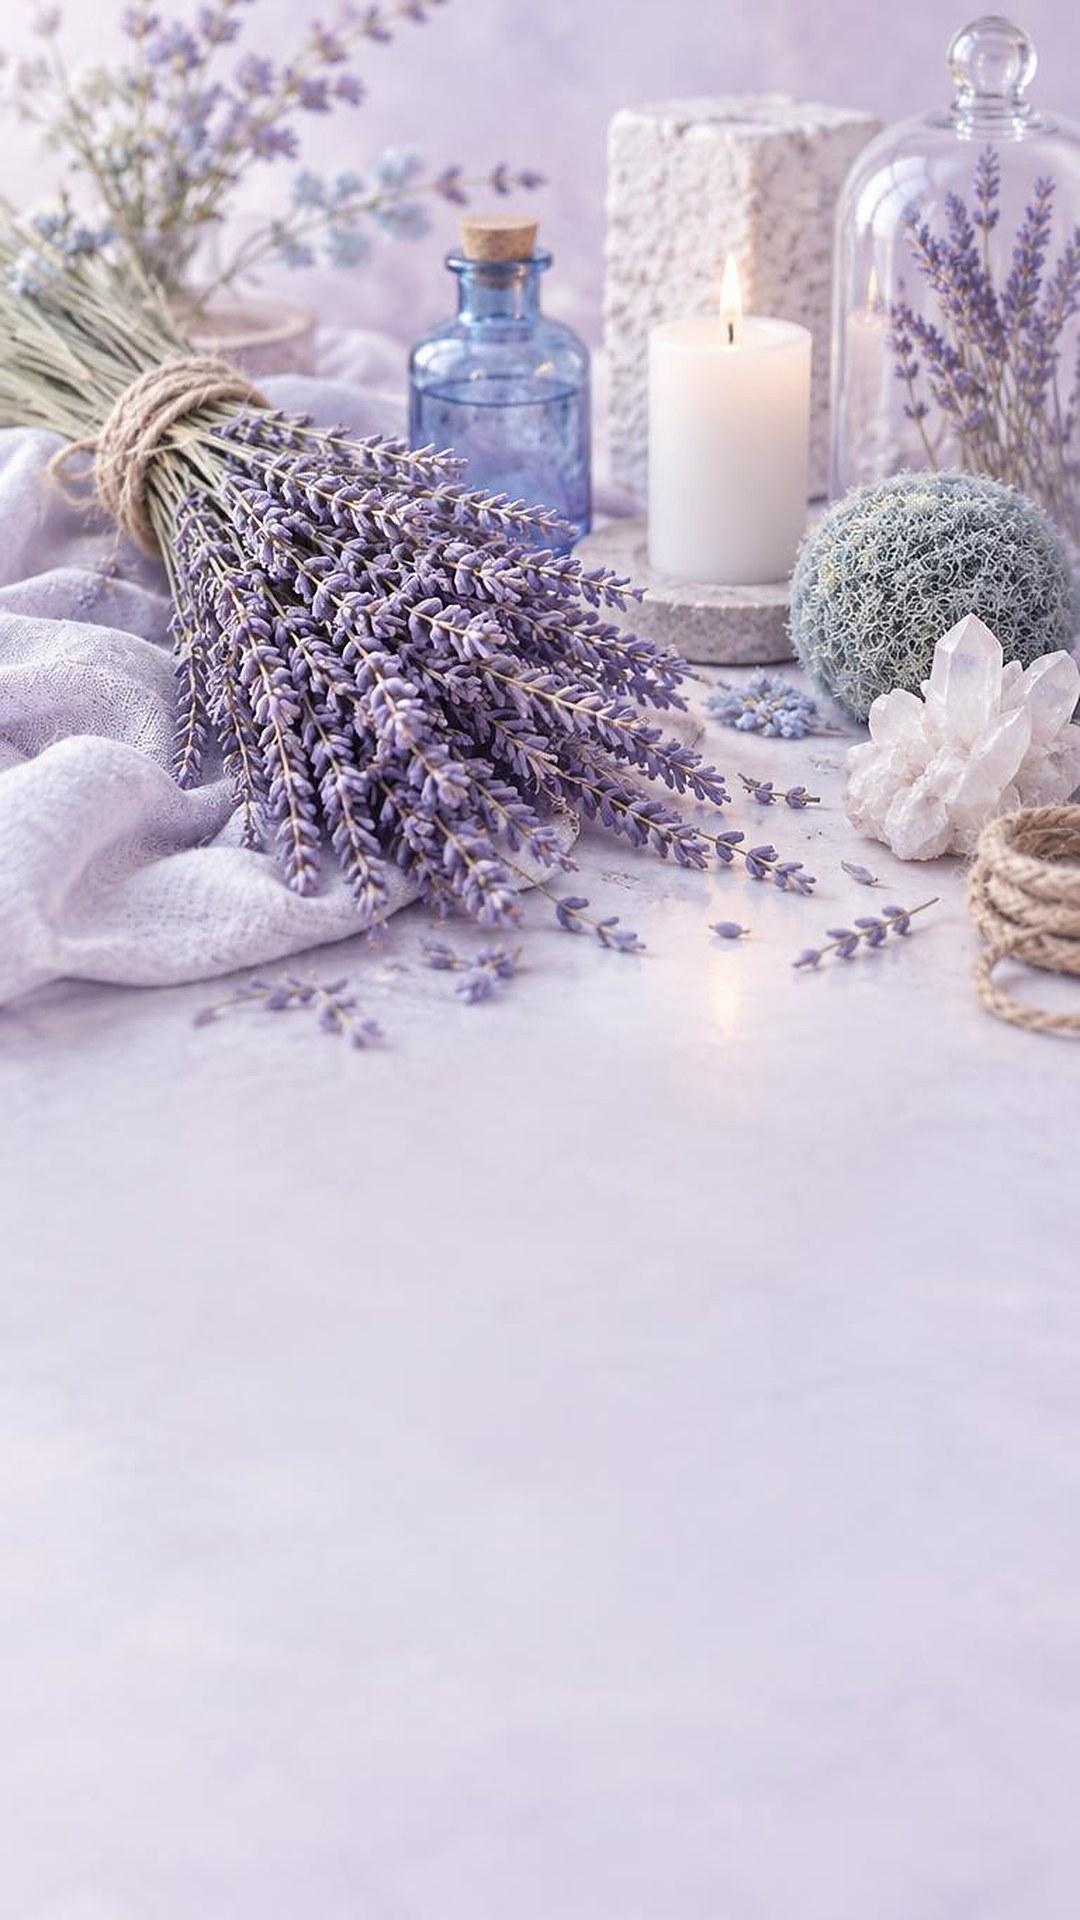
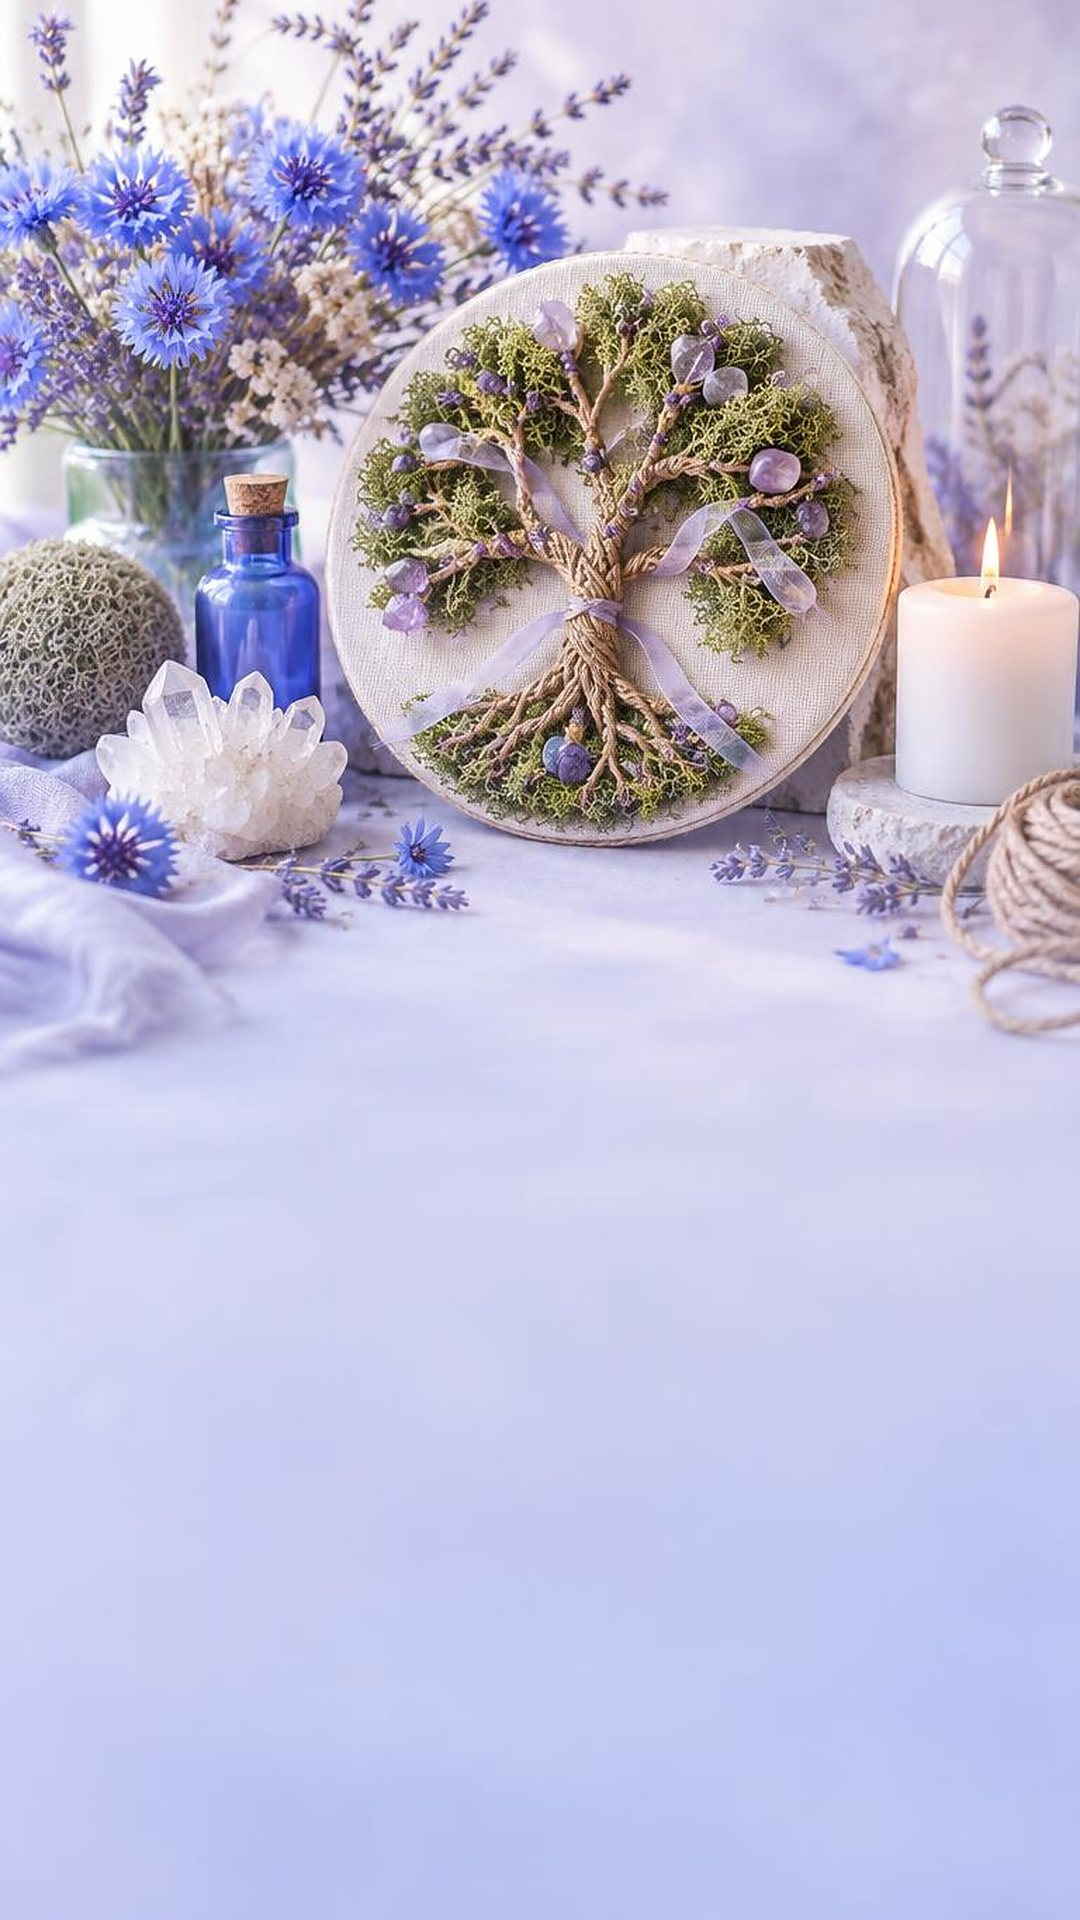
deploy: обновление лендинга

diff --git a/style.css b/style.css
@@ -104,7 +104,7 @@ a{color:inherit;text-decoration:none}
 /* ---------- ГЕРОЙ ---------- */
 .hero{position:relative;height:100vh;height:100dvh;min-height:620px;overflow:hidden;display:flex;align-items:stretch}
 .hero__media{position:absolute;inset:-6% 0;will-change:transform;
-  background-image:var(--hero-mobile,none),url('img/hero.jpg?v=52');
+  background-image:var(--hero-mobile,none),url('img/hero.jpg?v=67');
   background-size:cover;background-position:center,72% center}
 /* светлая вуаль: картинка дышит сверху, низ ровно уходит в фон страницы —
    текст теперь тёмный, поэтому шторки не затемняют, а наоборот проясняют */
@@ -233,7 +233,7 @@ a{color:inherit;text-decoration:none}
 
 /* ---------- адаптив ---------- */
 @media (max-width:900px){
-  :root{--hero-mobile:url('img/hero-mobile.jpg?v=52')}
+  :root{--hero-mobile:url('img/hero-mobile.jpg?v=67')}
   .hero__media{background-position:center,center}
   .slide{width:78vw}
   .gallery__sticky{height:auto;position:relative;padding:60px 0}

diff --git a/index.html b/index.html
@@ -15,7 +15,7 @@
 <meta property="og:description" content="За один вечер — готовая вещь. Мастер ведёт за руку: вот так держать, вот так вести.">
 <meta property="og:image" content="img/og.jpg">
 <meta name="twitter:card" content="summary_large_image">
-<link rel="stylesheet" href="style.css?v=66">
+<link rel="stylesheet" href="style.css?v=67">
 </head>
 <body>
 

diff --git a/HERO-PROMPTS.md b/HERO-PROMPTS.md
@@ -5,6 +5,88 @@
 
 ---
 
+## 🔘 ПРОМПТ — КНОПКА v2 (сочная, «в виде чего-то»)
+
+> Брат: «чтоб сочная была, красивая, мож в виде чего-то, чтоб сочеталось с главной».
+> Размер: Leonardo preset **16:9** (если есть 21:9 — бери его). Внутри **никакого текста** —
+> надпись накладываем кодом. Фон строго однородный — по нему вырезаю в прозрачность.
+
+### 1 ⭐ ОСНОВНОЙ — сочная желейная капсула (под белый текст)
+```
+A single glossy jelly capsule button, UI element, centered, filling about 88% of the frame width, rounded pill shape with fully rounded ends, aspect ratio about 4:1. Rich saturated lavender-violet translucent gel, deep periwinkle blue shading in the lower half, juicy candy-like volume, thick glossy highlight across the top, bright white rim light, a few tiny dew drops and one soft specular streak. The center of the capsule is clean and smooth: empty space for a label. Soft violet drop shadow and a gentle lilac glow around it. Background: flat, uniform, plain light lilac, no objects, no texture. Product render, studio light, crisp edges, 3D UI asset, straight front view, perfectly centered and symmetrical, ultra detailed, 8k. No text, no letters, no numbers, no icon, no logo, no watermark.
+```
+Negative:
+```
+text, letters, words, numbers, icon, arrow, logo, watermark, signature, hands, fingers, phone, screen, mockup, perspective, tilted, rotated, cropped, multiple buttons, extra objects, busy background, texture, noise, dark background, black, dull, washed out, desaturated, muddy, blurry, low contrast, flat
+```
+
+### 2 — стеклянная капсула с лавандой внутри (декоративная, центр пустой)
+```
+A single transparent glass capsule button, UI element, centered, about 88% of the frame width, rounded pill shape, aspect ratio about 4:1. Clear smooth glass filled with a soft lavender-violet liquid glow, two small sprigs of dried lavender fixed inside near the two rounded ends only, the middle third of the capsule completely clear and empty for a label. Bright white rim light, delicate specular highlights, soft violet drop shadow, gentle lilac glow around. Background: flat, uniform, plain light lilac, no objects, no texture. Product render, studio light, crisp sharp edges, 3D UI asset, straight front view, perfectly centered and symmetrical, ultra detailed, 8k. No text, no letters, no numbers, no icon, no logo, no watermark.
+```
+
+### 3 — кнопка-голыш из лавандового мыла (матовая, «ручная работа»)
+```
+A single smooth oval bar of handmade lavender soap used as a button, UI element, centered, about 88% of the frame width, very rounded pill shape, aspect ratio about 4:1. Matte soft lavender-violet surface with a subtle silky sheen, a few tiny air bubbles and a hint of dried lavender speckle at the very edges, the central area clean and smooth for a label. Soft short drop shadow, gentle lilac glow around. Background: flat, uniform, plain light lilac, no objects, no texture. Product render, studio light, crisp edges, 3D UI asset, straight front view, perfectly centered and symmetrical, ultra detailed, 8k. No text, no letters, no numbers, no icon, no logo, no watermark.
+```
+
+**Моя ставка — №1.** Она «сочная» именно так, как ты просишь, и при этом центр чистый: белая надпись ляжет без проблем. №2 самая нарядная, но лаванда по краям съест место под текст — придётся делать кнопку шире. №3 самая «ручная», но матовая кнопка на светлом фоне будет самой незаметной из трёх.
+
+---
+
+## 🔘 ПРОМПТ — КНОПКА (стеклянная капсула под светлую тему)
+
+> Брат просит сгенерить кнопку в Leonardo. Важно: **капсулу просим ПУСТУЮ** — буквы генератор
+> пишет криво; надпись «Смотреть курсы» накладываем кодом поверх.
+> **Размер:** Leonardo preset **16:9** (если есть 21:9 — бери его, капсула выйдет длиннее и ровнее).
+> На выходе ~1472×832. Нужна капсула ~4:1, итог на сайте — 217×56 CSS (×3 для retina = 651×168).
+
+**EN:**
+```
+A single horizontal glass capsule button, UI element, centered, occupying about 88% of the frame width. Rounded pill shape with fully rounded ends, aspect ratio about 4:1. Palette: pale lavender, soft periwinkle and milky white. Translucent frosted glass with a bright white rim light along the top edge, soft inner glow, subtle violet inner shadow at the bottom, tiny specular highlights. Gentle drop shadow beneath, soft lilac glow around it. Completely EMPTY inside: absolutely no text, no letters, no numbers, no icons, no symbols, no logo. Background: flat, clean, uniform pale lilac, no objects, no texture. Product render, studio lighting, crisp sharp edges, 3D UI asset, straight front view, perfectly centered, symmetrical, ultra detailed, 8k.
+```
+
+**RU:**
+```
+Одна горизонтальная стеклянная капсула-кнопка, элемент интерфейса, по центру кадра, занимает около 88% ширины. Форма пилюли с полностью скруглёнными торцами, соотношение примерно 4:1. Палитра: бледная лаванда, мягкий васильково-голубой и молочно-белый. Полупрозрачное матовое стекло, яркая белая контурная подсветка по верхней кромке, мягкое внутреннее свечение, лёгкая сиреневая тень внутри снизу, мелкие блики. Внизу мягкая падающая тень, вокруг — лиловое свечение. Внутри капсулы ПУСТО: никакого текста, букв, цифр, иконок, символов и логотипов. Фон — ровный, чистый, однородный бледно-лиловый, без предметов и фактуры. Продуктовый рендер, студийный свет, резкие края, 3D-элемент интерфейса, строго фронтальный вид, идеально по центру, симметрично, 8k.
+```
+
+**Negative:**
+```
+text, letters, words, numbers, icon, arrow, logo, watermark, signature, hands, fingers, phone, screen, mockup, perspective, tilted, rotated, cropped, multiple buttons, extra objects, busy background, texture, noise, dark background, black, navy, oversaturated, blurry, low contrast
+```
+
+---
+
+## 🌸 ПРОМПТ v6 (САМЫЙ АКТУАЛЬНЫЙ) — васильки + «древо рода» со мхом
+
+> Задача брата: главная в той же лавандовой палитре, но **больше васильков** (их синева сядет
+> в тон кнопке-капсуле, у неё внутри синева `#313abe`), плюс **древо рода со стабилизированным
+> мхом** — перекличка с фото мастера. Низ кадра — пустой, чуть холоднее книзу, чтобы кнопка «села».
+> Внутри никакого текста. Фон ровный — по нему при необходимости режу в прозрачность.
+
+**EN (телефон, 9:16) — preset 9:16:**
+```
+Cinematic bright still life photograph, vertical 9:16. Airy high-key lighting, soft diffused daylight, gentle haze. Palette: pale lavender and lilac with strong cornflower-blue accents and milky white. Centerpiece: a round handmade linen wall panel (panno) with a family tree laid out on it - the trunk and branches made of twisted jute twine and copper wire, generously covered with soft stabilised moss in fresh green, studded with violet amethyst beads, small polished stones and thin linen ribbons - the panel stands leaning at a slight angle against a rough plaster block. Around it: a generous bouquet of blue cornflowers mixed with dried lavender, a small blue glass apothecary bottle with a cork, a white lit pillar candle on a stone coaster, a clear glass bell jar, a pale moss sphere, a white quartz crystal cluster, washed linen cloth, a coil of jute rope. Objects clustered in the upper half and toward the sides, dissolving softly into a pale lilac background. The lower 45% is completely empty: smooth, pale, slightly blurred, tinted soft lilac-blue, clean negative space for a headline and a button. No dark shadows, no black areas. Shallow depth of field, delicate film grain, pastel colour grading, no text, no watermark, ultra detailed, 8k.
+```
+
+**RU:**
+```
+Кинематографичный светлый натюрморт, вертикально 9:16. Воздушный высокий ключ, мягкий рассеянный свет, лёгкая дымка. Палитра: бледная лаванда и сирень с сильными васильково-синими акцентами и молочно-белым. В центре — круглое ПАННО из льна ручной работы, на нём выложено древо рода: ствол и ветви из скрученного джутового шнура и медной проволоки, густо покрытые мягким стабилизированным мхом свежего зелёного цвета, с сиреневыми бусинами аметиста, мелкими отшлифованными камнями и тонкими льняными лентами; панно стоит, прислонённое под лёгким углом к гипсовому блоку. Вокруг: щедрый букет синих васильков вместе с сушёной лавандой, маленькая синяя стеклянная бутылочка с пробкой, белая зажжённая свеча-столбик на каменной подставке, стеклянный колпак, светлый шар мха, белая друза кварца, выстиранная льняная ткань, моток джутовой верёвки. Предметы собраны в верхней половине и по краям, мягко растворяясь в бледно-сиреневом фоне. Нижние 45% полностью пустые: ровные, светлые, слегка размытые, с лёгким сиренево-голубым оттенком — чистое место под заголовок и кнопку. Без тёмных теней и чёрных зон. Малая глубина резкости, лёгкое зерно, пастельная цветокоррекция, без текста и водяных знаков, 8k.
+```
+
+**Для десктопа (16:9)** — те же три замены, что и раньше:
+`vertical 9:16` → `horizontal 16:9`, `upper half and toward the sides` → `upper half, weighted to the right`,
+`The lower 45%` → `The lower 45% and the left side`.
+
+**Negative:**
+```
+text, letters, words, watermark, logo, signature, dark background, deep navy, black, moody low-key, heavy shadows, purple neon, magenta, oversaturated, plastic, blurry, horizontal stripes, hard edges, banding, cluttered bottom, crowded composition, dried brown moss, dead plants
+```
+> `dried brown moss, dead plants` — иначе «стабилизированный мох» выйдет сухим и бурым, а нужен свежий зелёный.
+
+---
+
 ## 🌟 ПРОМПТ v5 (САМЫЙ АКТУАЛЬНЫЙ) — светлый, ФИОЛЕТОВЕЕ, как `23110.jpg`
 
 > Брат прислал `uploads/23110.jpg` — почти идеал: лаванда, синяя бутылочка, белая свеча, колпак,
